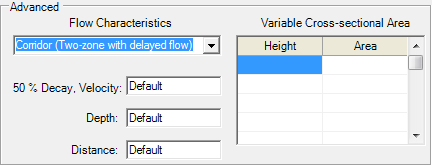
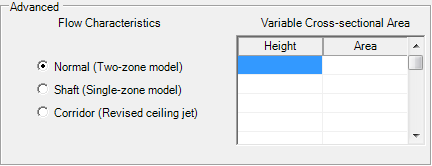
CFAST User's Guide: Updating User's Guide for version 7

diff --git a/cfast/trunk/Docs/Users_Guide/Input_File_Chapter.tex b/cfast/trunk/Docs/Users_Guide/Input_File_Chapter.tex
@@ -746,7 +746,7 @@ Use the Create New button to create a new fire object with default values for al
 \textbf{CO Yield} (default units: kg/kg, default value: determined by correlation): Constant species yield of carbon monoxide expressed as a fraction of the fuel mass converted into carbon monoxide.  By default, the CO yield is related to the soot yield via the correlation developed by K\"oyl\"u and Faeth
 
 \be
-y_{CO} = \frac{12n_C}{M_fv_f}0.0014 + 0.37y_s \label{eq:Koylu} 
+y_{CO} = \frac{12n_C}{M_fv_f}0.0014 + 0.37y_s \label{eq:Koylu}
 \ee
 where $n_C$ is the number of carbon atoms in a fuel molecule, $M_f$ is the molecular weight of the fuel, and $v_f$ is the stoichiometric coefficient of the fuel, assumed to be 1 here \cite{Koylu:1991}. Note that this correlation refers to well-ventilated fires. Yields of CO and soot in underventilated fires is still a subject of active research.
 
@@ -825,7 +825,7 @@ For a wide range of fires, the fire growth can be accurately represented with a 
 
 \subsection{Associating Fire Objects with One or More Instances of the Fire in the Compartments of the Simulation}
 
-Fires  are placed in defined positions within a compartment of a simulation and oriented with a normal vector to the surface of the object.  Ignition of an object may be at a specified time, a specified net incident heat flux on the surface of the object, or at a specified surface temperature of the object. 
+Fires  are placed in defined positions within a compartment of a simulation and oriented with a normal vector to the surface of the object.  Ignition of an object may be at a specified time, a specified net incident heat flux on the surface of the object, or at a specified surface temperature of the object.
 
 \begin{figure}[h!]
 \begin{center}
@@ -963,13 +963,22 @@ For all targets, heat flux is calculated to the surface specified by the user (w
 
 \textbf{Compartment}: The compartment in which the target is located.
 
+\textbf{Target Type}: If the solution method is not STEADY, this parameter further indicates the solutions equations.  Specify Thermally Thick, Thermally Thin, or Cylindrical.  For thermally thin materials, CFAST uses ordinary differential equations; for thermally thick materials, partial differential equations, and for cylindrical targets, cylindrical coordinates.
+
+\textbf{Solution Method}: Optional parameter that indicates the solution method. STEADY for steady state solution, EXPLICIT for explicit solution, IMPLICIT for implicit solution.
+
+
+\begin{wrapfigure}{l}{0pt}
+  \includegraphics[width=3.713in]{FIGURES/Input_File/Target_Geometry}
+\end{wrapfigure}
+
 \textbf{Width (X)} Position (default units: m, default value: none): Position of the target as a distance from the left wall of the target compartment (X direction).
 
 \textbf{Depth (Y)} Position(default units: m, default value: none): Position of the target as a distance from the front wall of the target compartment (Y direction).
 
 \textbf{Height (Z)} Position(default units: m, default value: none): Height of the target above the floor (Z direction).
 
-\begin{wrapfigure}{r}{0pt}
+\begin{wrapfigure}{l}{0pt}
   \includegraphics[width=1.875in]{FIGURES/Input_File/Target_Points_To}
 \end{wrapfigure}
 
@@ -979,11 +988,13 @@ For all targets, heat flux is calculated to the surface specified by the user (w
 
 \textbf{Normal Vector Z} Component: specifies a vector of unit length perpendicular to the exposed surface of the target. (Height) component in the direction from the floor of the target compartment. Default value is a horizontal, upward facing target, unit vector = (0,0,1).
 
-\textbf{Material}: Used to specify the wall material of the target.  Any material from the thermal database used to represent wall materials may be used here.  Since the transient heat conduction problem is not solved now for the target this parameter is not used.
+\begin{wrapfigure}{l}{0pt}
+  \includegraphics[width=2.531in]{FIGURES/Input_File/Target_Construction}
+\end{wrapfigure}
 
-\textbf{Target Type}: If the solution method is not STEADY, this parameter further indicates the solutions equations.  Specifiy Thermally Thick, Thermally Thin, or Cylindrical.  For thermally thin materials, CFAST uses ordinary differential equations; for thermally thick materials, partial differential equations, and for cylindrical targets, cylindrical corrdinates.
+\textbf{Material}: Used to specify the wall material of the target.  Any existing material in the list of thermal properties may be used here.
 
-\textbf{Solution Method}: Optional parameter that indicates the solution method. STEADY for steady state solution, EXPLICIT for explicit solution, IMPLICIT for implicit solution.
+\textbf{Internal Temperature at} (default units: none, default value: 0.5): For each target, CFAST calculates the internal temperature at a number of node points within the target. By default, the reported internal temperature (in the printed and spreadsheet output) is the temperature at the center of the target, e.g., equidistant from the front and back faces of the target. This input allows the user to override this default position. The input represents the position as a fraction of the thickness from the front surface to the back surface of the material.
 
 \begin{itemize}
 \item The TARGE keyword performs a heat transfer calculation between the compartment and the target. The steady state option assumes that the target material reacts instantly to changing conditions and computes the target temperature that would result in a balance of incoming and outgoing heat (i.e., a steady state). If a transient target temperature is modeled, then one can either assume that there is a temperature variation within the target or assume that the target is “thin” and can be modeled using only one temperature. If the target is assumed to be thin then the ODE option should be used set since this is how the equations are solved. If the target is assumed to be thick then the PDE option should set. Finally, if one of the two transient options are set (ODE or PDE), the numerical solution can be solved using an explicit or an implicit method.  Typically, the implicit method will work in all cases.  The explicit method is recommended only when the implicit method fails to come to a solution.
@@ -992,27 +1003,22 @@ For all targets, heat flux is calculated to the surface specified by the user (w
 
 \subsection{Modeling a Compartment as a Tall Shaft or Long Corridor}
 
-For tall compartments or those removed from the room of fire origin, the compartment may be modeled as a single, well-mixed zone rather than the default two-zone assumption. A single zone approximation is appropriate for smoke flow far from a fire source, where the two-zone layer stratification is less pronounced than in compartments near the fire. This is used in situations where the stratification does not occur. Examples are elevators, shafts, complex stairwells, and compartments far from the fire.
+For tall compartments or those removed from the room of fire origin, the compartment may be modeled as a single, well-mixed zone rather than the default two-zone assumption. A single zone approximation is appropriate for smoke flow far from a fire source, where the two-zone layer stratification is less pronounced than in compartments near the fire or in situations where the stratification does not occur. Examples are elevators, shafts, complex stairwells, or compartments far from the fire.
 
-For long hallways or corridors, there can be a significant delay time for the initial hot gas layer to travel along the ceiling to the far end of the compartment. By estimating the time required for a ceiling jet to travel in a corridor and the temperature distribution along the corridor, CFAST can delay flow into compartments connected to corridors until the ceiling jet has passed the connections to these compartments.
+By specifying the compartment as a corridor, the ceiling jet temperature is calculated with a different empirical correlation that results in a somewhat higher temperature near the ceiling.  This will impact, for example, detectors, sprinkler, and targets near the ceiling in corridors.
 
 \begin{figure}[h!]
 \begin{center}
-\includegraphics[width=4.5in]{FIGURES/Input_File/Corridor_Flow}
+\includegraphics[width=4.25in]{FIGURES/Input_File/Corridor_Flow}
 \end{center}
 \end{figure}
 
-\textbf{50 \% Decay Velocity} (default units: m/s, default value: calculated by software): ceiling jet velocity at the distance from the reference point where the temperature falls off by 50 \%. Default velocity and depth are calculated by the program based on the vent size, flow and layer thickness in the horizontal vent from which flow first enters the hallway, and on the width of the hallway1.
+\textbf{Normal (Two-zone model)}: Conditions in the compartment are calculated with the normal two-zone approach.
 
-\textbf{50 \% Decay Depth} (default units: m, default value: calculated by software): ceiling jet depth at the distance from the reference point where the temperature falls off by 50 \%.
+\textbf{Shaft (Single-zone model}: Conditions in the compartment are calculated as single well-mixed zone.
 
-\textbf{50 \% Decay Distance} (default units: m, default value: calculated by software): distance from the reference point where the temperature falls off by 50 \%.
+\textbf{Corridor (Revised ceiling jet}: Conditions in the compartment are calculated with the normal two-zone approach. Ceiling jet temperatures in the compartment are calculated with a revised empirical correlation specific to corridors.
 
-\begin{itemize}
-\item  Since the algorithm depends on the flow into the hallway to determine default ceiling jet velocity and depth, the main fire compartment should not be specified as a hallway. In the main fire compartment, a stable layer will build before flow into the compartment through horizontal vents.
-\item The zone model concept best applies for an enclosure in which the width and length are not too different.  If the horizontal dimensions of the room differ too much (i.e., the room looks like a corridor), the flow pattern in the room may become asymmetrical. If the enclosure is too shallow, the temperature may have significant radial differences. The width of the plume may at some height become equal to the width of the room and the model assumptions may fail in a tall and narrow enclosure. Therefore, the user should recognize approximate limits on the ratio of the length (L), width (W), and height (H) of the compartment.
-\item If the aspect ratio (the maximum of length/width or width/length) is greater than about 5, the corridor flow algorithm can be used to provide the appropriate filling time. By contrast, a single zone approximation is more appropriate for tall shafts (elevators and stairways).  This is due to interaction of the plume, lower layer, and shaft walls that leads to complete mixing.  This is the inverse of the corridor problem, and occurs at an aspect ratio (the maximum of height/width or height/length) of about 5. Recommended guidance is as follows:  If the width to length aspect ratio (the maximum of length/width or width/length) is greater than 5, use of the corridor flow algorithm is appropriate. If the width to length aspect ratio is greater than 3 but less than 5, the corridor flow algorithm may or may not be appropriate; consider the results from a simulation with and without the algorithm to assess its appropriateness. If the room is not a corridor and the height aspect ratio (the maximum height/width or height/length) is greater than 5, the single zone approximation is appropriate.
-\end{itemize}
 
 \subsection{Defining Compartment Area}
 
@@ -1028,7 +1034,7 @@ ROOMH,1,6,0,1.799,1.8,2.199,2.2,2.399
 
 \begin{figure}[h!]
 \begin{center}
-\includegraphics[width=4.5in]{FIGURES/Input_File/Variable_Area}
+\includegraphics[width=4.25in]{FIGURES/Input_File/Variable_Area}
 \end{center}
 \end{figure}
 
